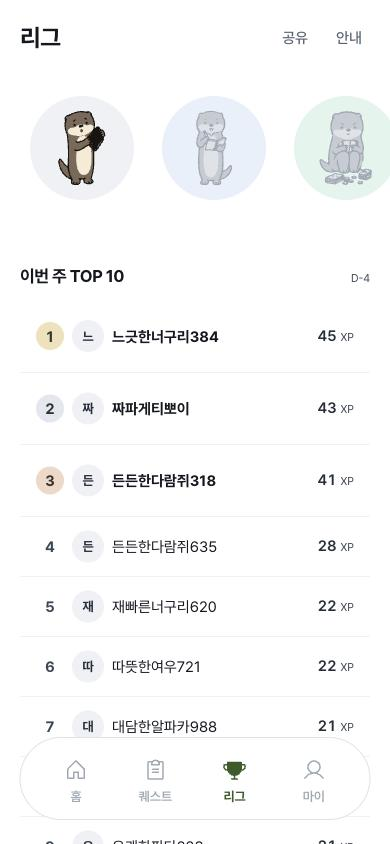
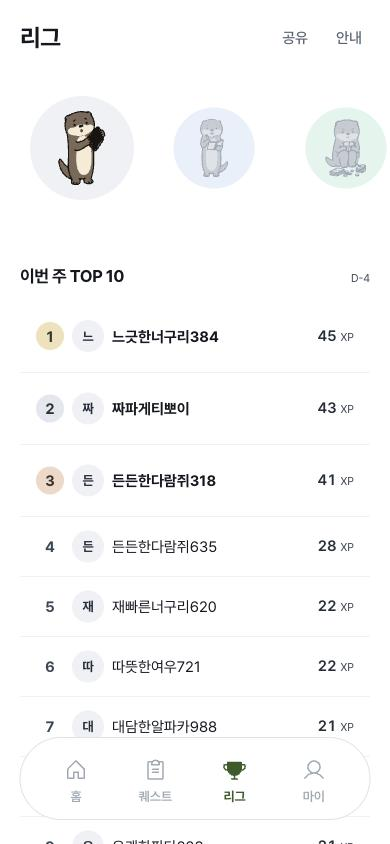
리그 등급 길에서 현재 등급만 원래 크기, 나머지는 78%로 작게

Changed region(s): [[0.7385, 0.0924, 1.0, 0.2464], [0.4923, 0.1232, 0.6154, 0.2156]]

diff --git a/src/index.css b/src/index.css
@@ -1137,6 +1137,9 @@ button.course-home-rail-card:active { background: var(--color-surface); }
 .league-tier-road::-webkit-scrollbar { display: none; }
 .league-tier-step { position: relative; z-index: 1; display: flex; width: 124px; flex-shrink: 0; flex-direction: column; align-items: center; gap: var(--space-1); scroll-snap-align: center; }
 .league-tier-node { display: flex; width: 104px; height: 104px; align-items: center; justify-content: center; border-radius: 50%; }
+/* 현재 등급만 원래 크기, 나머지는 조금 작게(칸 폭은 그대로라 넘기는 위치가 흔들리지 않는다) */
+.league-tier-step { justify-content: center; }
+.league-tier-step:not([data-state='current']) .league-tier-node { transform: scale(0.78); }
 .league-tier-step[data-state='done'] .league-tier-node { color: var(--color-ink-2); }
 .league-tier-step[data-state='current'] .league-tier-node { color: var(--color-accent-foreground); }
 .league-tier-step[data-state='future'] .league-tier-node .stage-glyph { opacity: 1; filter: none; }
